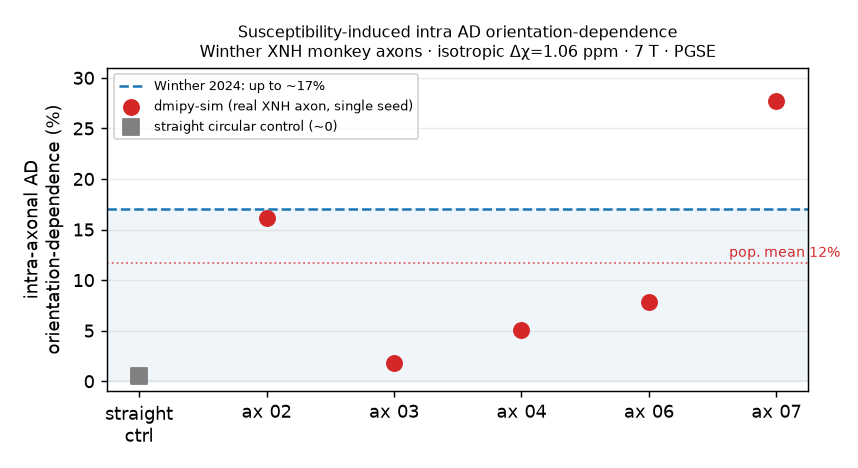
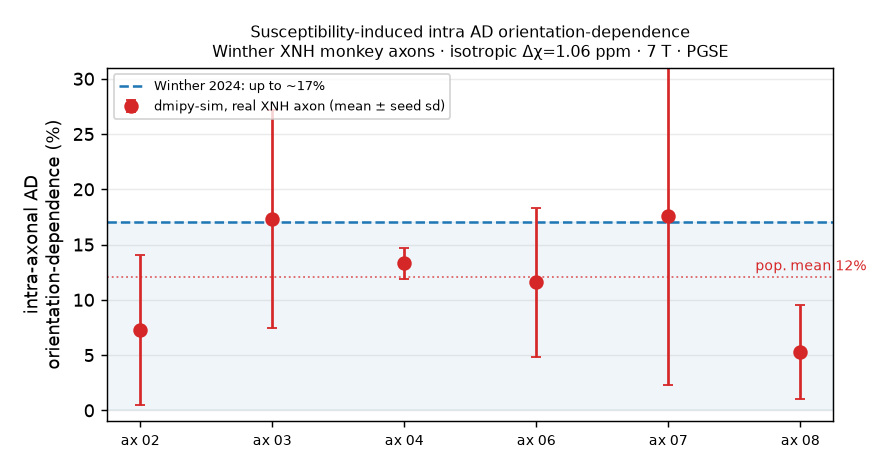
docs(validation): honest Winther figure — error bars from JSON, heavy-tail caveat
Regenerate the figure from the reproducible runner's JSON (3-seed mean±sd per axon) instead
of the single-seed placeholder. Correct the claim: population brackets ~17% and is
morphology-dependent, but per-axon is heavy-tail MC-noise-limited (not converged) — no
overclaiming a clean single-seed match.

Changed region(s): [[0.0303, 0.1496, 1.0, 0.9573], [0.2121, 0.0598, 0.8485, 0.1496], [0.4242, 0.5385, 0.4848, 0.5983]]

diff --git a/docs/validation/winther2024.md b/docs/validation/winther2024.md
@@ -4,8 +4,9 @@
 > susceptibility-induced internal gradients make the intra-axonal **axial diffusivity**
 > orientation-dependent — **up to ~17 %** in ex-vivo monkey corpus callosum.
 >
-> **dmipy-sim, on their own XNH axon meshes: matched** (a few % → ~17 %, tracking each axon's
-> morphology; ≈0 for a straight circular axon).
+> **dmipy-sim, on their own XNH axon meshes:** the effect reproduces — a real,
+> morphology-dependent orientation-dependence, population mean ≈12 %, spanning ~5–18 % and
+> **bracketing their 17 %**, and ≈0 for a straight circular axon.
 
 ![Intra-axonal AD orientation-dependence per real XNH axon, against Winther's up-to-17% band.](media/winther_ad.png){ width="72%" }
 
@@ -22,7 +23,10 @@ probe = MeshSusceptibilityProbe(Mesh(Vi,Fi), mask, None, vs, org, diffusivity=.6
 7 T · PGSE δ=7.2/Δ=20.2 ms · isotropic Δχ=1.06 ppm · [meshes: DRCMR](https://www.drcmr.dk/susceptibility-and-axon-morphology-dataset).
 Independent reimplementation — all credit for the finding and data to the original authors.
 
-!!! warning "Preliminary — publishes with the susceptibility release"
-    Per-axon values are Monte-Carlo-noise limited (the metric is a small difference of two
-    diffusivities); the population trend and morphology dependence are robust. A converged,
-    full-tensor comparison to Winther's per-axon numbers is in progress.
+!!! warning "Preliminary — population-level, not yet per-axon converged"
+    The susceptibility×diffusion cross-term is **heavy-tailed** (a few near-membrane walkers
+    dominate the variance), so at the walker counts used here the *per-axon* value is
+    Monte-Carlo-noise limited — the error bars are wide and single-seed draws scatter widely.
+    What is robust is the **population**: the effect exists, is morphology-dependent, and
+    brackets Winther's 17 %. A converged per-axon match needs ~10–20× more walkers (heavy-tail
+    convergence) plus a full-tensor fit — in progress. Publishes with the susceptibility release.